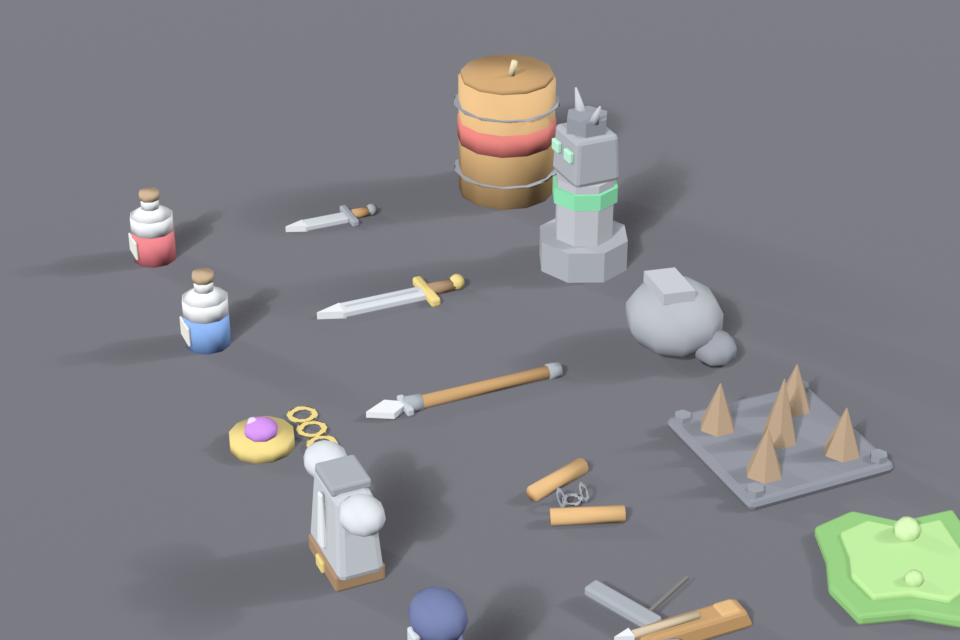
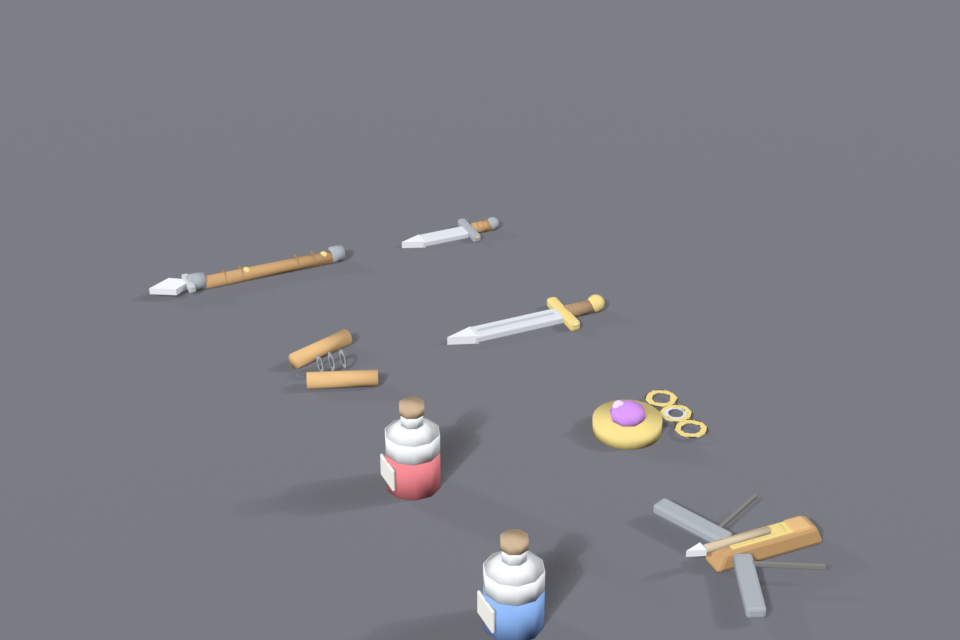
docs+art: P3 item refinement complete

Changed region(s): [[0.4062, 0.0625, 1.0, 1.0], [0.2188, 0.4062, 0.5938, 0.9375], [0.125, 0.2812, 0.4062, 0.5625]]

diff --git a/CHANGELOG.md b/CHANGELOG.md
@@ -1,4 +1,65 @@
-# A22b: 30 种怪物全部精修完成（P2 全量）（2026-11-17）
+# P3: 通用道具精修 + A22 脚本残留清理（2026-11-18）
+
+> 用户拍板：P3-0 + P3-1（清理 + 8 道具精修）、面数统一到 ~1000/件、
+> 闸门只覆盖 8 道具绝对区间。护甲/地标本身健康，本轮不动（P3-2 留待后续）。
+
+## 批次 0 — A22 遗留脚本残留清理
+
+- `build_models_blender.py` 删除 `"item_armor"` / `"item_robe"` 两条 BUILDERS。
+- `blender_models_items.py` 删除已无对应资产的 `build_armor` / `build_robe` 函数。
+- 验收：两脚本 grep 这 4 个符号 0 命中（RED 6 → GREEN 0）；重跑 build_all 不再生成已删资产。
+
+## 批次 1 — 8 件通用道具精修
+
+面数前 → 后（三角面）：
+
+| 道具 | 前 | 后 |
+|---|---:|---:|
+| 长枪 | 204 | 2076 |
+| 双截棍 | 296 | 1096 |
+| 药水红 | 272 | 1424 |
+| 药水蓝 | 272 | 1424 |
+| 匕首 | 332 | 1512 |
+| 剑 | 440 | 1620 |
+| 护符 | 496 | 1252 |
+| 弩 | 592 | 1840 |
+
+全部 ≥1000。做法：提高不改变半径的基元段数 + 在原 bbox 内部加贴合装饰
+（枪头缨/缠带、宝石切面/链环、标签浮雕、护手雕纹、弓臂加固片等）。
+
+## bbox 约束的实测要点（重要经验）
+
+这批道具的基础 bbox 是低段数 builder 采样得到的（如药水半径实际 4.0，
+基线记 3.8）。**提高瓶身/圆盘等半径敏感件的段数会采样到更精确的极值，
+反而撑破原 bbox**。统一对策：半径敏感件保持原段数，靠 bbox 内部的小装饰环/
+球/浮雕补面，并把装饰收紧到中心带（如 z≈1.9）。这条经验已固化进闸门。
+
+## 闸门
+
+- 新增 `tools/check_ground_item_assets_p3.js` + `tools/ground_item_baselines_p3.json`
+  （8 道具的基线 bbox + 面数）。校验 schema / name==stem / finite /
+  faces≥1000 / 各轴 bbox 不超基线（容差 0.01）。
+- `node tools/check_ground_item_assets_p3.js` → **ITEMS=8 FAILED=0**。
+- A22 怪物闸门 `--all` → 150/150（不退化）。
+
+## 预览
+
+`art_src/preview/blender_preview_items.png` 用 8 道具独立重生成（未重跑 build_all，
+避免 bmesh 非确定性污染其它资产）；全家福审图确认 8 件造型更新、无穿模。
+
+## 验证
+
+- P3 闸门 8/8；A22 闸门 150/150；`player_part_asset_test` 契约；
+  `ctest` 90/90；`fn_length` 0 超规；`world_validator` 通过。
+
+## 后续（P3-2 / P4）
+
+9 地标 + 8 护甲的细节微调（P3-2）、21 件地形的审美升级（P4）仍未开始，
+按用户节奏另行立项。
+
+---
+
+# A22b: 30 种怪物全部精修完成（P2 全量）（2026-11-17）
 
 > A22 P1 样板（4 族）验收通过后，用户要求 26 种全部精修完。
 
